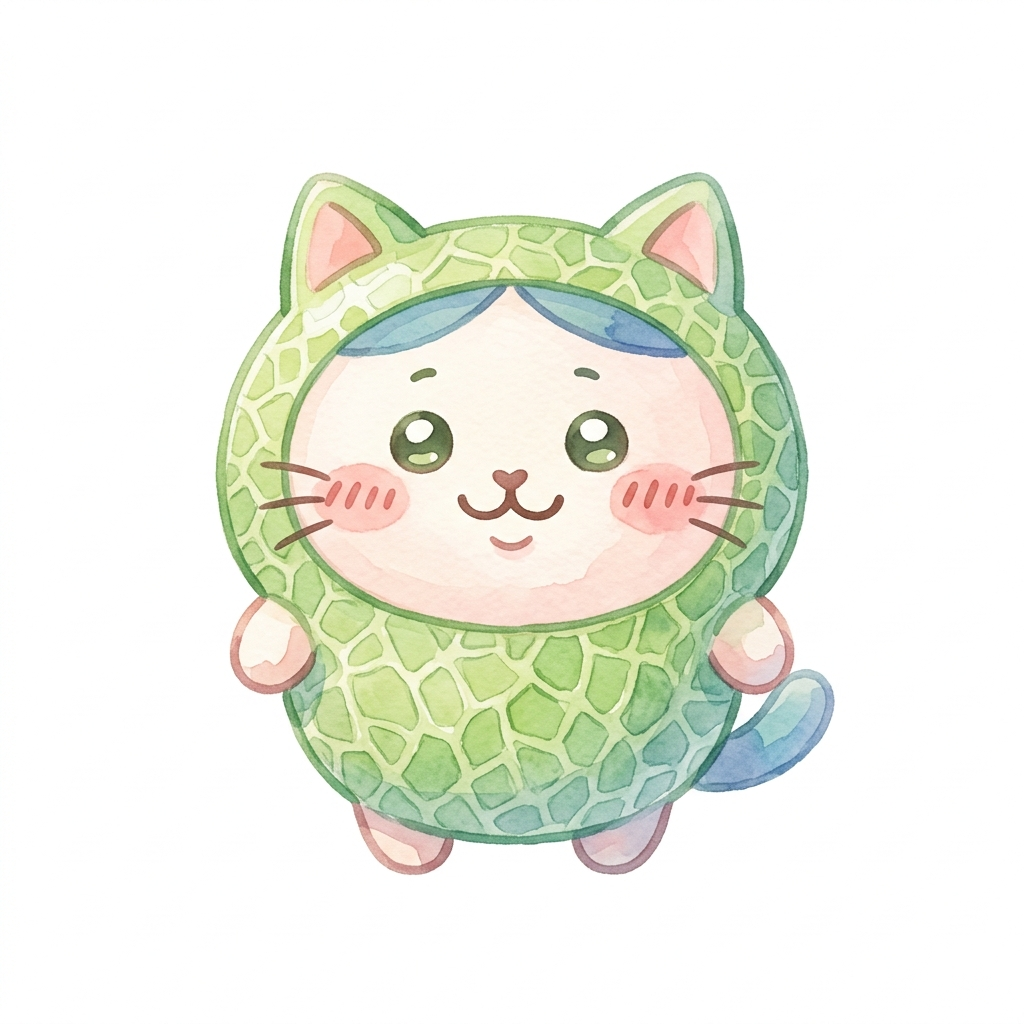
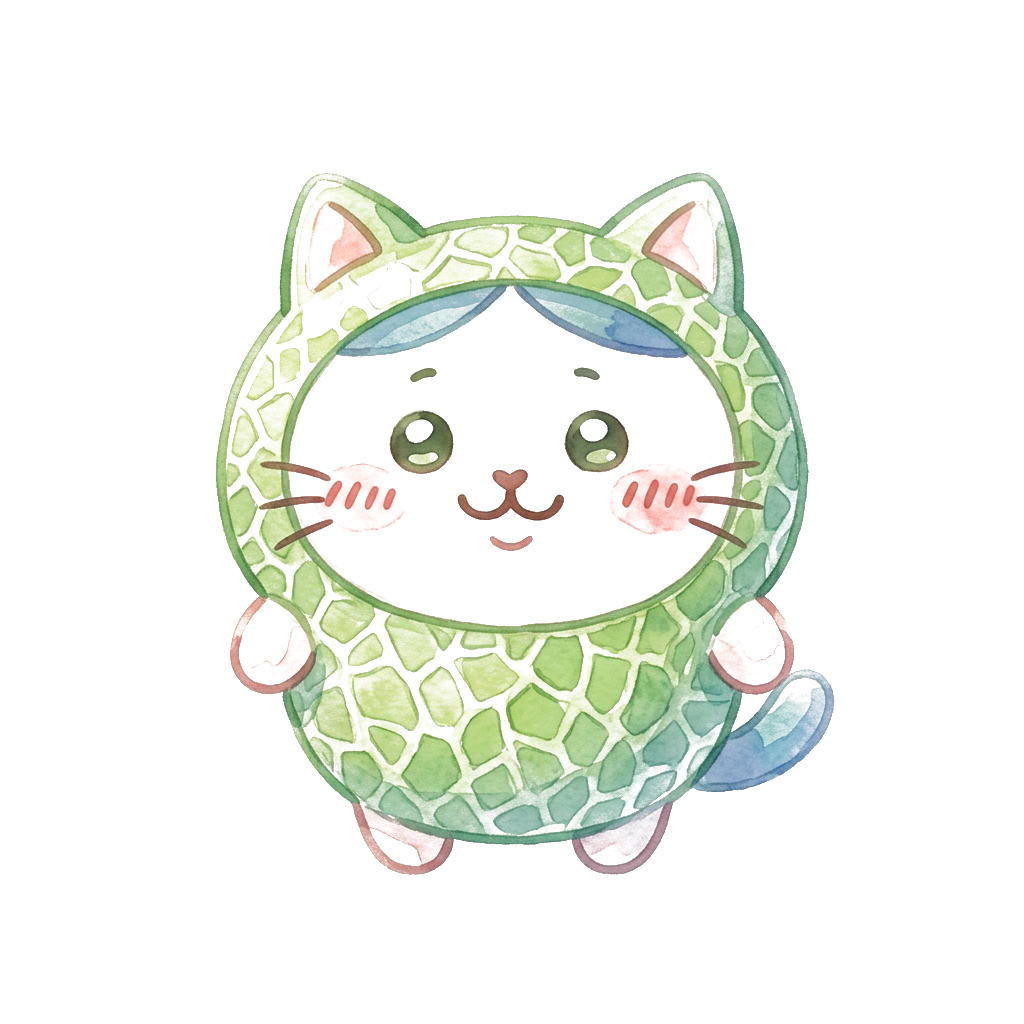
fix: strip white background from character PNGs to create transparent sprites, fix dropZone ID binding, and add click-to-place support

Changed region(s): [[0.2188, 0.1562, 0.7812, 0.8438], [0.6562, 0.5625, 0.8125, 0.7188], [0.6562, 0.6562, 0.6875, 0.6875]]

diff --git a/src/pages/fruit-havoc/fruit-havoc.js b/src/pages/fruit-havoc/fruit-havoc.js
@@ -423,7 +423,7 @@ export async function renderFruitHavoc(container, params = {}) {
   // 2.5D Storybook Platformer Physics Engine (800x480)
   // ----------------------------------------------------
   const canvas = container.querySelector('#fruit-canvas');
-  const dropZone = container.querySelector('#canvas-drop-zone');
+  const dropZone = container.querySelector('#canvas-wrapper-box');
   const ctx = canvas ? canvas.getContext('2d') : null;
   const TILE_SIZE = 50; // 放大 50px 格子
 
@@ -783,10 +783,33 @@ export async function renderFruitHavoc(container, params = {}) {
     });
   });
 
-  if (dropZone && canvas) {
+    const handlePlaceTrapAtGrid = (gridX, gridY) => {
+      if (currentScene !== 1) return;
+      const targetTrap = TRAP_ITEMS.find(t => t.id === (draggedTrapId || selectedTrap.id)) || selectedTrap;
+      const currentP = players[activePlacementPlayerIdx];
+
+      if (targetTrap.id === 20) {
+        placedTraps = placedTraps.filter(pt => !(pt.gridX === gridX && pt.gridY === gridY));
+        showToast(`💥 ${currentP.name} 拆除了位置 (${gridX}, ${gridY}) 的障礙物！`, 'warning');
+      } else {
+        placedTraps = placedTraps.filter(pt => !(pt.gridX === gridX && pt.gridY === gridY));
+        placedTraps.push({ id: Date.now(), trap: targetTrap, gridX, gridY, placedBy: currentP.id });
+        showToast(`🎉 ${currentP.name} 放置【${targetTrap.icon} ${targetTrap.name}】至 (${gridX}, ${gridY})！`, 'success');
+      }
+
+      activePlacementPlayerIdx = (activePlacementPlayerIdx + 1) % players.length;
+      _updateTurnUI();
+
+      if (mode === 'online' && isPeerConnected) {
+        sendTrapPlacement(gridX, gridY, targetTrap.id);
+      }
+    };
+
+    // 1. Drag & Drop Event Listeners
     dropZone.addEventListener('dragover', (e) => {
       if (currentScene !== 1) return;
       e.preventDefault();
+      if (e.dataTransfer) e.dataTransfer.dropEffect = 'copy';
 
       const rect = canvas.getBoundingClientRect();
       const scaleX = canvas.width / rect.width;
@@ -821,28 +844,26 @@ export async function renderFruitHavoc(container, params = {}) {
       if (relX >= 0 && relX < 800 && relY >= 0 && relY < 480) {
         const gridX = Math.floor(relX / TILE_SIZE);
         const gridY = Math.floor(relY / TILE_SIZE);
-        const targetTrap = TRAP_ITEMS.find(t => t.id === (draggedTrapId || selectedTrap.id)) || selectedTrap;
-
-        const currentP = players[activePlacementPlayerIdx];
-
-        if (targetTrap.id === 20) {
-          placedTraps = placedTraps.filter(pt => !(pt.gridX === gridX && pt.gridY === gridY));
-          showToast(`💥 ${currentP.name} 拆除了位置 (${gridX}, ${gridY}) 的障礙物！`, 'warning');
-        } else {
-          placedTraps = placedTraps.filter(pt => !(pt.gridX === gridX && pt.gridY === gridY));
-          placedTraps.push({ id: Date.now(), trap: targetTrap, gridX, gridY, placedBy: currentP.id });
-          showToast(`🎉 ${currentP.name} 放置【${targetTrap.icon} ${targetTrap.name}】至 (${gridX}, ${gridY})！`, 'success');
-        }
-
-        activePlacementPlayerIdx = (activePlacementPlayerIdx + 1) % players.length;
-        _updateTurnUI();
-
-        if (mode === 'online' && isPeerConnected) {
-          sendTrapPlacement(gridX, gridY, targetTrap.id);
-        }
+        handlePlaceTrapAtGrid(gridX, gridY);
       }
     });
-  }
+
+    // 2. Click-to-Place Alternative (點擊選中道具 ➔ 點擊地圖網格直接放置)
+    canvas.addEventListener('click', (e) => {
+      if (currentScene !== 1) return;
+      const rect = canvas.getBoundingClientRect();
+      const scaleX = canvas.width / rect.width;
+      const scaleY = canvas.height / rect.height;
+
+      const relX = (e.clientX - rect.left) * scaleX;
+      const relY = (e.clientY - rect.top) * scaleY;
+
+      if (relX >= 0 && relX < 800 && relY >= 0 && relY < 480) {
+        const gridX = Math.floor(relX / TILE_SIZE);
+        const gridY = Math.floor(relY / TILE_SIZE);
+        handlePlaceTrapAtGrid(gridX, gridY);
+      }
+    });
 
   // Buttons
   container.querySelector('#btn-build-finish')?.addEventListener('click', () => {
